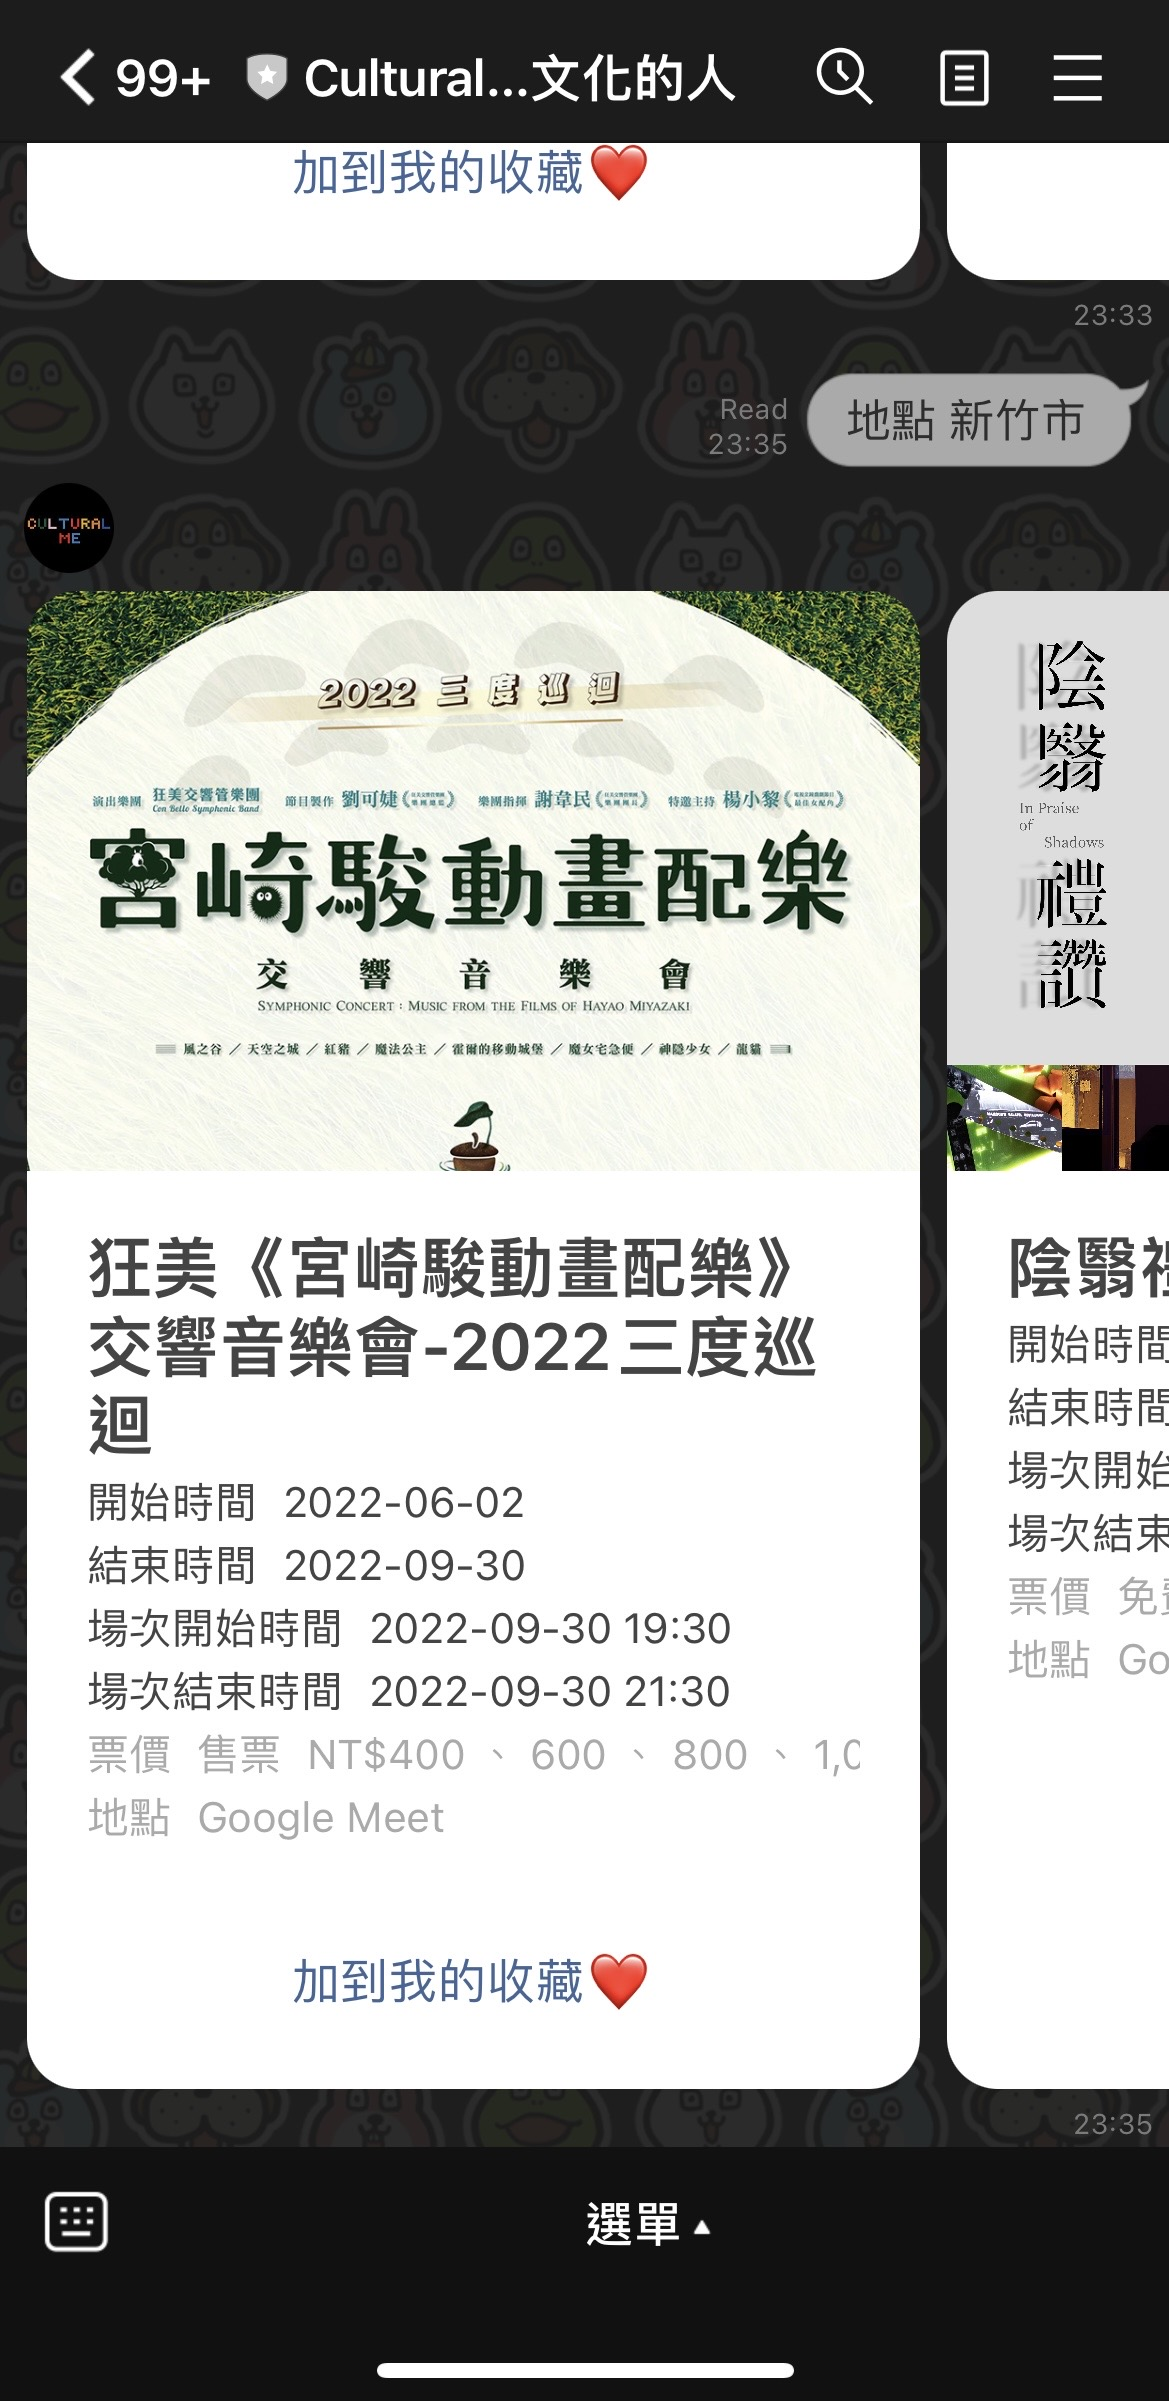
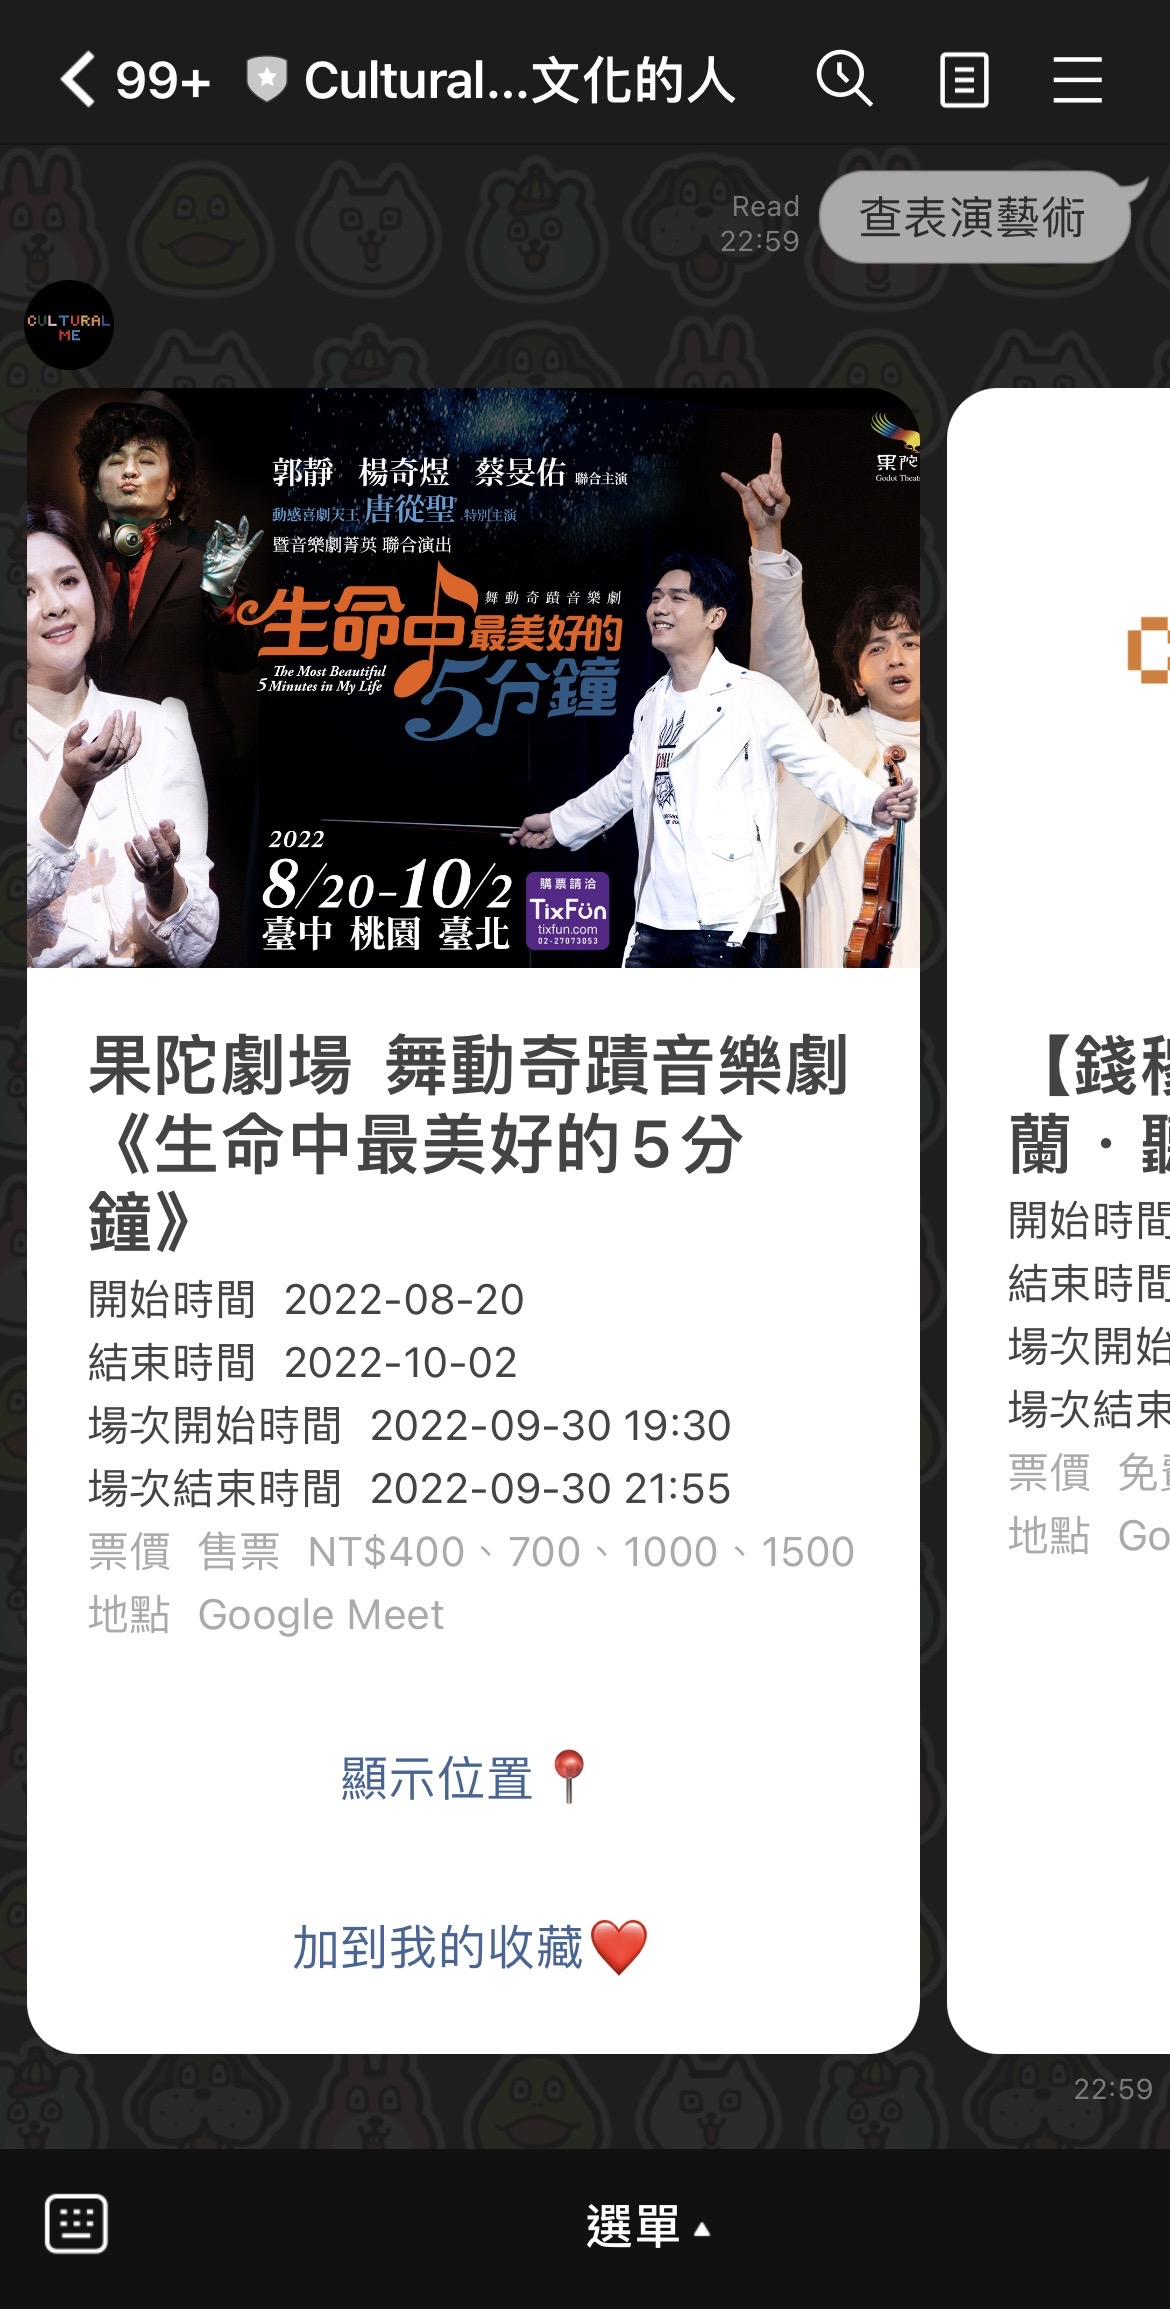
update README & preview img

diff --git a/README.md b/README.md
@@ -22,26 +22,35 @@
 
 ➡4. 離我最近
 輸入「離我最近」可顯示附近5公里內活動，至多12筆。
+<img src="https://github.com/iiQvQii/Linebot-Cultural-Me/blob/master/img/preview-nearby.jpg" width="300"></img>
+<img src="https://github.com/iiQvQii/Linebot-Cultural-Me/blob/master/img/preview-nearby-1.jpg" width="300"></img>
 
 <br>
-<img src="https://github.com/iiQvQii/Linebot-Cultural-Me/blob/master/img/preview-search.jpg" width="300"></img>
-點擊回覆訊息中的圖片連結可進入活動網站獲得更多資訊。
 
-### 「我的收藏」功能
+### 搜尋畫面預覽
+<img src="https://github.com/iiQvQii/Linebot-Cultural-Me/blob/master/img/preview-search.jpg" width="300"></img>
+- 點擊回覆訊息中的圖片連結可進入活動網站獲得更多資訊，若無提供網址則為google。
+- flex訊息提供使用者該活動的圖片、活動網址、活動名稱、活動檔期起訖日、該場次時間以及位置資訊。
+
+<img src="https://github.com/iiQvQii/Linebot-Cultural-Me/blob/master/img/preview-show-location.jpg" width="300"></img>
+點擊「📍顯示位置」可查詢該活動的地理位置，若查無，會顯示找不到。
+
+### 「收藏」(共用中)
 - 新增:
 可透過搜尋過後將該筆活動新增至收藏，若該活動已被收藏過則回覆已被收藏。
 - 查詢、移除:
 下方圖文選單可查詢已收藏活動，開啟收藏夾後可以移除該活動。
 <br>
-<img src="https://github.com/iiQvQii/Linebot-Cultural-Me/blob/master/img/preview-collect.jpg" width="300"></img>
 
 ### 圖文選單快捷鍵
-1. 搜尋規則
-2. 我的收藏
-3. 免費 (不用錢的最棒)
-4. 臺北市 (私心快捷鍵)
+1. 我的收藏
+2. 隨機
+3. 離我最近
+4. 搜尋規則
+5. 免費 (不用錢的最棒)
+6. 臺北市 (私心快捷鍵)
 <br>
-<img src="https://github.com/iiQvQii/Linebot-Cultural-Me/blob/master/img/preview-menu.jpg" width="300"></img>
+<img src="https://github.com/iiQvQii/Linebot-Cultural-Me/blob/master/img/menu.png" width="300"></img>
 
 ### API 資料來源
 [政府開放資料平臺-文化快遞資訊](https://data.gov.tw/dataset/151940)
